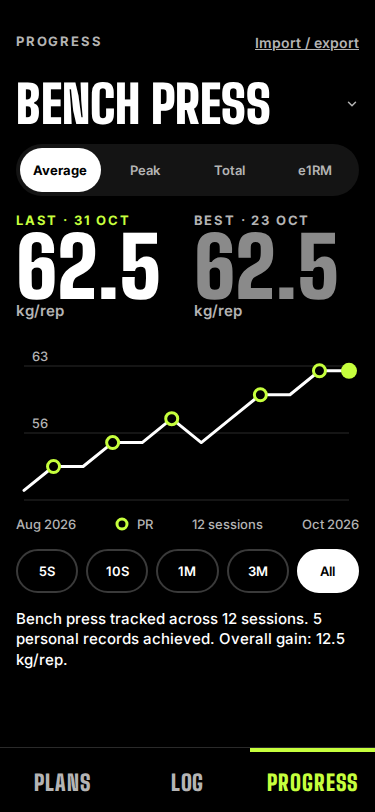
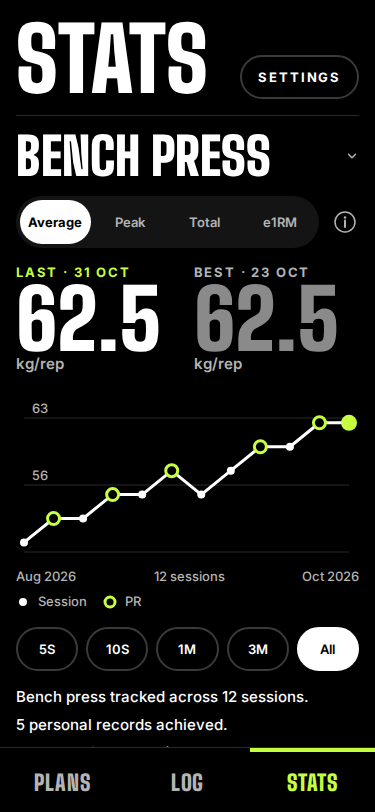
docs: describe session dots and metric info on Stats

diff --git a/README.md b/README.md
@@ -6,7 +6,7 @@ A phone-first gym tracker for logging a set and running a rest timer in a few ta
 
 | Plans | Log | Rest timer | Stats |
 | --- | --- | --- | --- |
-| ![Plans list with Push, Pull and Legs, each with a Start button](docs/images/plans.png) | ![Log home with the Push plan ready to start and recent sessions below](docs/images/log-home.png) | ![Rest timer counting down from one minute, with the next bench press set below](docs/images/rest.png) | ![Bench press progress chart with last and best figures and personal records marked](docs/images/progress.png) |
+| ![Plans list with Push, Pull and Legs, each with a Start button](docs/images/plans.png) | ![Log home with the Push plan ready to start and recent sessions below](docs/images/log-home.png) | ![Rest timer counting down from one minute, with the next bench press set below](docs/images/rest.png) | ![Bench press progress chart with last and best figures, a dot per session and personal records ringed](docs/images/progress.png) |
 
 ## Features
 
@@ -14,7 +14,7 @@ A phone-first gym tracker for logging a set and running a rest timer in a few ta
 - **Session logging**: start a plan, log weight and reps with large steppers, or time a hold or a cardio effort with optional distance. Edit or delete a logged set, back-date a session, and edit or delete a saved one.
 - **Rest and hold timers**: a rest starts when a set is logged and fills its timer block as it runs, with buttons to add or take off time and to skip. A sound and vibration cue plays at the end. Timers survive switching exercises and reloading the page.
 - **Finish screen**: totals for the session, notes, then save. A newly saved session is first in Recent on the Log home.
-- **Stats**: per-exercise chart of average, peak, total or estimated one-rep max (e1RM), over the last 5 or 10 sessions, 1 or 3 months, or all time, with last and best figures and personal records marked.
+- **Stats**: per-exercise chart of average, peak, total or estimated one-rep max (e1RM), over the last 5 or 10 sessions, 1 or 3 months, or all time, with last and best figures, a dot for every session and personal records ringed; an info button says what each metric measures.
 - **CSV import and export**: export everything to one file, in the units you chose; import a file, review what was found, then add it to your data or replace your data. A file that can't be read changes nothing.
 - **kg or lb, km or mi**: pick units in Settings and every screen, figure and export follows; the stored values are never rewritten by the choice.
 - **Accent colour**: choose lime, amber, cyan, violet or red in Settings; rest, the main button and the active tab follow it, and every option keeps black text on it readable.
